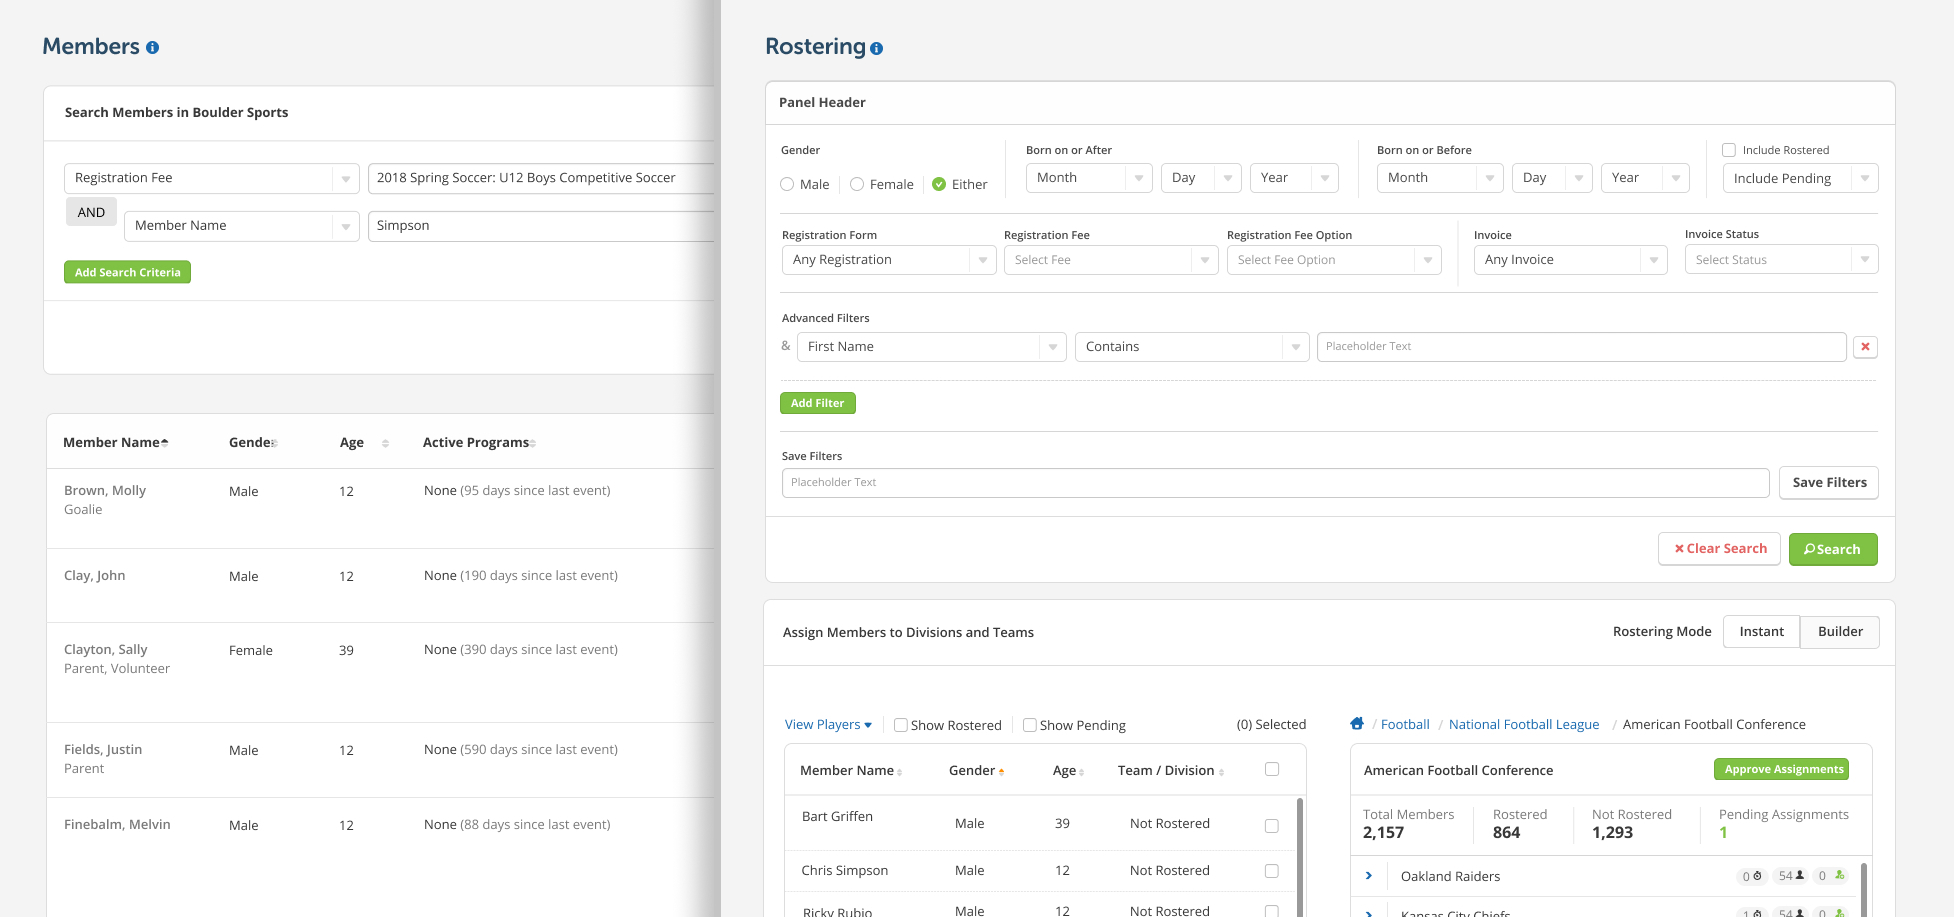
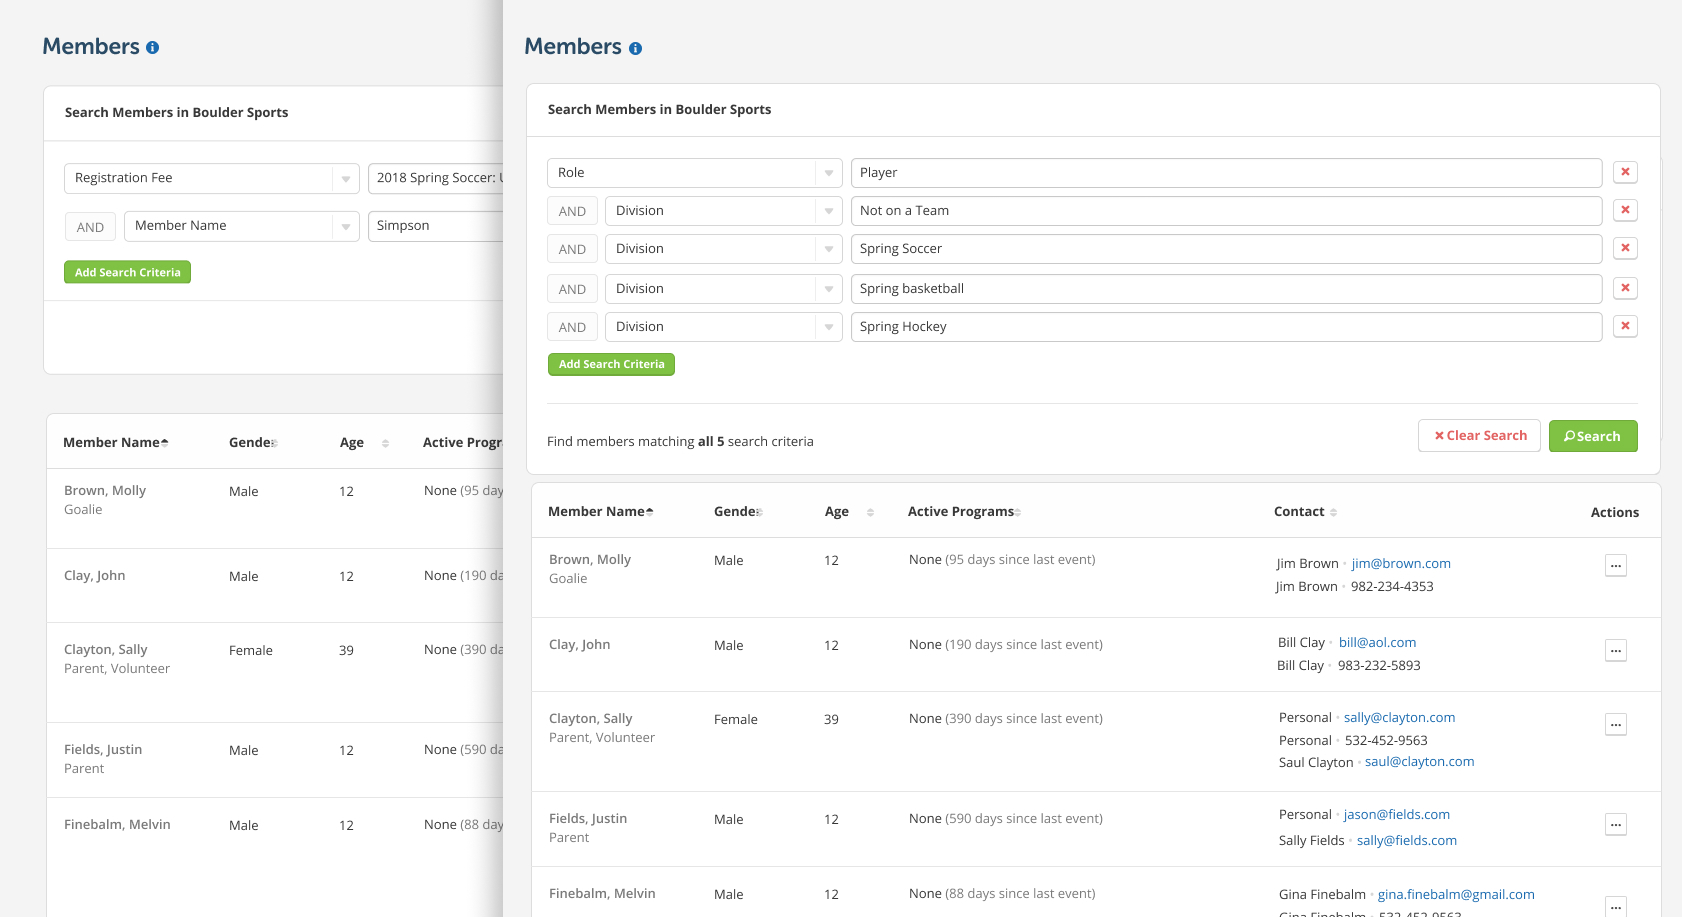
updates to the search article

diff --git a/src/scss/components/_article.scss b/src/scss/components/_article.scss
@@ -82,6 +82,13 @@ $spot-color: $cu-primary !default;
   margin: 0 auto;
 }
 
+.Article-feature {
+  background-color: $cu-middleground;
+  border: 1px solid $cu-divider--light;
+  padding: $su-medium;
+  margin-bottom: $su-xxlarge;
+}
+
 .figma_badge {
   text-align: center;
   display: block;

diff --git a/src/posts/teamsnap-search-patterns.md b/src/posts/teamsnap-search-patterns.md
@@ -22,7 +22,9 @@ TeamSnap’s Sports Org product is a an all in one platform for sports businesse
 
 Now, the current product only handles one season at a time but our upcoming plans include features like cross season member management which would bring the potential number of users on the system from 10k to 20k, 30k,  <b>40k members spread across hundreds of teams in past and present seasons</b>.
 
-Our general product strategy moving forward is geared around bringing reporting in app too. A lot of our competitors also relied on data exports as the way to satisfy reporting needs and as a whole their products were very disjointed. We viewed easy access to data that helps them run their business as a big differentiator.
+Our general product strategy moving forward is geared around bringing reporting in app too. A lot of our competitors also relied on data exports as the way to satisfy reporting needs and as a whole their products were very disjointed. 
+
+> We viewed easy access to data that helps them run their business as a big differentiator. Search is a backbone for surfacing that data.
 
 </header>
 
@@ -45,7 +47,9 @@ Our general product strategy moving forward is geared around bringing reporting 
 </div>
 </div>
 
-<blockquote class="Blockquote">The key thing to know about Anthony is he’s a volunteer, sports management is not his day job and he’s really only in it for his kids. <b>He doesn't have time for complexity</b>.</blockquote>
+#### The key things to know about Anthony are: 
+* He’s a volunteer, sports management is not his day job and he’s really only in it for his kids. He doesn't have time for complexity.
+* Being a father to a kid in a travel organization he’s familiar with a lot of travel accommodation sites like Expedia, AirBnB, South West Airlines.
 
 Typically he’s trying to accomplish a few tasks here and there after work or on the weekends. So when he starts hitting snags because somethings hard to use, slow, cumbersome or just plain confusing, the drop off rates for that session skyrocket and his satisfaction with the product plummets.
 
@@ -53,9 +57,7 @@ Typically he’s trying to accomplish a few tasks here and there after work or o
 
 ### The Problem
 
-<figure class="Article-image">
-  <img  class="u-border" src="/../../img/search-patterns/Old_UI_article.jpg" />
-</figure>
+Our search experiences weren't great to say the least and we were getting a lot of negative feedback from our customers. We had other searches in places like invoicing, messaging and reporting, some better than others, but all them inconsitent and hard to use. With Rostering, we made some search updates in the past but never really set a great foundation and over time, search inputs piled up as new requirements came in and different teams added on.
 
 <blockquote class="Blockquote Blockquote--largeText">
 
@@ -67,7 +69,15 @@ Typically he’s trying to accomplish a few tasks here and there after work or o
 
 </blockquote>
 
-Our search experiences weren't great to say the least and we’re getting a lot of vague feedback from our customers. We had made some search updates in the past but never really set a great foundation and over time they would get piled on as new requirements popped up and different teams added on.
+<figure class="Article-image">
+  <figcaption class="u-padBottomMd">Member Tab Search</figcaption>
+  <img  class="u-border" src="/../../img/search-patterns/Old_UI_article.jpg" />
+</figure>
+
+<figure class="Article-image">
+  <figcaption class="u-padBottomMd">Rostering Tab Search</figcaption>
+  <img  class="u-border" src="/../../img/search-patterns/Old_UI_two_article.jpg" />
+</figure>
 
 </section>
 
@@ -86,28 +96,14 @@ Our search experiences weren't great to say the least and we’re getting a lot 
 </figure>
 
 <blockquote class="Blockquote Blockquote--centered Blockquote--largeText">
-We were updating the members and rostering tabs searches, but given our past struggles, the amount of searching we had across the app and the data heavy roadmap, I wanted to provide a strategy for search moving forward.
+Two different teams I was on were updating the members and rostering tabs searches respectively, but given our past struggles, the amount of searching we had across the app and the data heavy roadmap, I wanted to provide a strategy for search moving forward.
 </blockquote>
-
-### Goals
-
-<figure class="Article-image">
-  <img src="/../../img/search-patterns/goals_metrics_funnels.jpg" />
-</figure>
-
-* <span class="u-block u-textLarge">Decrease Time to search</span> Gives us an measure of to how simple the search is to use.
-* <span class="u-block u-textLarge">Decrease Time to action</span> Serves as an indication of how connected the search is to the actual data.
-* <span class="u-block u-textLarge">Increase Valid searches</span> Provides insight as to how confusing the search is.
-
-<b>Hypothesis:</b> by targeting these user metrics we can decrease session dropoff and increase adoption; more so on rostering. The more we can improve key areas of member management the more we can increase our retention rate, increase booking numbers and overall profit.
 
 ### Quantitative Findings
 
 Like any worthwhile design, it starts with research. In this case we pulled the numbers of how people were using the the two searches. The goal was to see if we could determine any intent. Based on some conversations with customers, our assumption was that members would be more specific, focused on finding individuals vs rostering which is more about building segments of users. That assumption proved out to be true, but we also got some really good info for setting scope and selecting what criteria was needed on which feature. 
 
-<blockquote>
-The current searches had much more than what was needed, making the experiences cumbersome and intimidating.
-</blockquote>
+> The current members search had much more than what was needed, adding the the user experiences being cumbersome and intimidating.
 
 <figure class="Article-image">
   <img src="/../../img/search-patterns/Quanitative_members-tab.jpg" />
@@ -240,21 +236,64 @@ Some guidance as to how this notion of categorizing search inputs builds up to s
 
 Then condensing complex inputs into simplified singular ones. For example the combing the first, last and an operator into a single text input that combines the three. Stepped inputs like registration form, fee and option could also benefit from this approach; especially with a typeahead component.
 
-### Distilling Principles
+### Search UI Kit
 
-All this research is difficult to bring up in the the moment during a conversation so took a moment to distill it all down to some basic principles that tie back to the research and could easily be used as talking points. Standard UX laws are great to mention too, but these are geared towards our specific situation and draw from the context given on our research and from past experiences.
+To round out the visual design of the search components I put together a quick UI kit focusing on the visual design of the new patterns and how those components could fit into our app in different ways.
 
 <figure class="Article-image">
-  <img src="/../../img/search-patterns/ux-principles.jpg" />
+  <img src="/../../img/search-patterns/uI-kit.jpg" />
 </figure>
 
-1. <span class="u-block u-textLarge">Applied search criteria must have an indicator</span> otherwise users are starting with a false data set
-2. <span class="u-block u-textLarge">Make applied search criteria human readable</span> text strings over conditional logic and menu options
-3. <span class="u-block u-textLarge">User intent should drive the design</span> search should be unique to the goal of the feature
-4. <span class="u-block u-textLarge">Guide users to successful searches</span> help them to enter combinations of criteria that get result 
-5. <span class="u-block u-textLarge">Reduce complexity</span> don’t if they don’t need a specific option
-6. <span class="u-block u-textLarge">The best search is one not needed</span> if we can just show the results they need, do it
+<figure class="Article-image">
+  <figcaption class="u-padBottomMd">Simple Search</figcaption>
+  <img src="/../../img/search-patterns/future_usage_simple.jpg" />
+</figure>
 
+<figure class="Article-image">
+  <figcaption class="u-padBottomMd">Simple Search & Filter</figcaption>
+  <img src="/../../img/search-patterns/future_usage_simple_plus.jpg" />
+</figure>
+
+<figure class="Article-image">
+  <figcaption class="u-padBottomMd">Page Level Filter</figcaption>
+  <img src="/../../img/search-patterns/future_usage_page-filter.jpg" />
+</figure>
+
+<figure class="Article-image">
+  <figcaption class="u-padBottomMd">Compound Searching</figcaption>
+  <img src="/../../img/search-patterns/future_usage_compound.jpg" />
+</figure>
+
+### Distilling Principles
+
+All this research is difficult to bring up in the flow of a conversation so took a moment to distill it all down to some basic principles that tie back to the research and could easily be used as talking points.
+
+<div class="Article-feature">
+
+<figure class="Article-image u-padBottomNone">
+  <img src="/../../img/search-patterns/ux-principles.png" />
+</figure>
+
+1. <span class="u-block u-textLarge">Applied search criteria must have an indicator</span> otherwise users are starting with a false data set and we’re breaking their mental modal of the data from the start.
+2. <span class="u-block u-textLarge">Make applied search criteria human readable</span> So favor text strings over conditional logic and large groups of menu options so it takes less work to understand what criteria is applied.
+3. <span class="u-block u-textLarge">User intent should drive the design</span> Really consider the primary goal of the feature and how search facilitates that, then make it unique to that goal.
+4. <span class="u-block u-textLarge">Guide users to successful searches</span> By organizing inputs into categories we can help users enter better combinations of criteria and give them clearer paths in compound searches.
+5. <span class="u-block u-textLarge">Reduce complexity</span> By removing options they don’t need and condensing complex options we can limit the clicks needed as well as remove extraneous inputs that lead to invalid searches.
+6. <span class="u-block u-textLarge">The best search is one not needed</span> If we can just show the results they need, do it. Consider the overall flow the user is taking to get to specific information and look for patterns in common searches to define defaults and the overall experience around the search.
+
+</div>
+
+### Measuring Success
+
+<figure class="Article-image">
+  <img src="/../../img/search-patterns/goals_metrics_funnels.jpg" />
+</figure>
+
+* <span class="u-block u-textLarge">Decrease Time to search</span> Gives us an measure of to how simple the search is to use.
+* <span class="u-block u-textLarge">Decrease Time to action</span> Serves as an indication of how connected the search is to the actual data.
+* <span class="u-block u-textLarge">Increase Valid searches</span> Provides insight as to how confusing the search is.
+
+<b>Hypothesis:</b> by targeting these user metrics we can decrease session dropoff and increase adoption; more so on rostering. The more we can improve key areas of member management the more we can increase our retention rate, increase booking numbers and overall profit.
 
 </section>
 
@@ -272,9 +311,9 @@ All this research is difficult to bring up in the the moment during a conversati
   <img src="/../../img/search-patterns/Members_final.jpg" />
 </figure>
 
-We decided the scope of the typeahed component was just too much and ultimately went with the simple input. We felt like that was still a big improvement and really wanted to learn how that smaller iteration improves user experience and if we even need the type ahead.
+The scope of the typeahed component was just too much and ultimately we went with a simple full name input, condensing the first name, last name and operator inputs from before. 
 
-> Typeahead did a great job closing that gap, but w wanted to start with the smaller iteration and learn how our changes effected the time to search and action metrics as well as drop off between search and action to see if type typeahead was needed.
+> We felt like the quicker iteration was still a big improvement and really wanted to learn how it effected the time to search and action metrics as well as drop off between search and action, to see if type typeahead was needed.
 
 ### Rostering Tab
 
@@ -282,35 +321,9 @@ We decided the scope of the typeahed component was just too much and ultimately 
   <img src="/../../img/search-patterns/Rostering_final.jpg" />
 </figure>
 
-With the rostering team they initially wanted to go with the old version of member tab style search since their was already a pattern in place previously. 
+With the rostering team they initially wanted to go with the old version of member tab style search, the query builder pattern, since their was already a code in place previously.
 
-> After walking through and breaking down the interactions of the new design with the team, comparing them to our goals, we decided to move forward with the new grouped pattern.
-
-</section>
-
-<section class="Article-section">
-
-<header>
-
-<h2 class="Section-title">Rounding out the patterns</h2>
-
-</header>
-
-### Search UI Kit
-
-Even though we decided on the simplified version I still wanted to move forward with polishing the patterns, so we had some of that design and research ready to go moving forward.
-
-<figure class="Article-image">
-  <img src="/../../img/search-patterns/uI-kit.jpg" />
-</figure>
-
-### Future Usage
-
-The UI kit dives more into the visual design of the components while below gets more into how those components can fit into our app in various ways.
-
-<figure class="Article-image">
-  <img src="/../../img/search-patterns/future_usage.jpg" />
-</figure>
+> After walking through and breaking down the interactions of the new design with the team, comparing them to our goals, we decided to invest in the new categorized search pattern.
 
 </section>
 
@@ -318,24 +331,35 @@ The UI kit dives more into the visual design of the components while below gets 
 
 ### My Role
 
-* Led Research for the qualitative, quantitative and competitor analysis to define requirements
-* Led design of both implementations as well as the patterns
-* Led team discussions around choosing an option and worked with team on defining scope
+* Led design of both implementations as well as the patterns.
+* Led Research for the qualitative, quantitative and competitor analysis to define requirements.
+* Led team discussions around choosing an option and worked with team on defining scope.
+* Paired with PMs on measures of success and some of the qualitative analysis
+* Collaborated with back end developers on search capabilities given the limitations of our data structure.
+* Provided CSS guidence to front end developers on how to build the UI for the new searches patterns.
 
-### Lessons Learned
+### Learnings
 
-We didn’t have a lot of resources dedicated to setting up analytics so getting some of these numbers were difficult to do at scale, but measuring a small sample size through FullStory the number of bad searches had dropped to nearly nothing since we weren’t allowing it in the UI, which in term speed up time to results and ultimately time to action significantly. 
+We didn’t have a lot of resources dedicated to setting up analytics so getting some of these numbers were difficult to do at scale, but measuring a small sample size through FullStory the number of bad searches had dropped to nearly nothing since we weren’t allowing it in the UI, which in term speed up time to results and ultimately time to action significantly.
 
-<blockquote>
+<blockquote class="u-spaceBottomLg u-spaceTopLg Blockquote--largeText Blockquote--centered">
 Providing patterns, principles, tasks and user metrics to tie our efforts back to worked well in leading discussions. It provided a focused and objective platform to speak on.
 </blockquote>
 
 ### Next Steps
 
+#### Refine our Metrics Funnel
 Continue to work on a metrics funnel so as we make updates to both the search and results, we get a clear picture of the changes effect without manual monitoring. Then directly correlating them back to larger product and business goals to try and put a dollar amount on our efforts as a team. The goal is to get it down to a formula of as x decreases, y increases by z.
 
 <figure class="Article-image u-padTopMd">
   <img src="/../../img/search-patterns/next_steps.jpg" />
+</figure>
+
+#### Follow up on Principle Six
+With this project being specifically focused on the manual search experience, didn’t really get a chance to map out user flows and come up with ideas of how to automatically surface the info they need. I’d like to expand on that notion, especially with all the reporting work coming up.
+
+<figure class="Article-image u-padTopMd">
+  <img src="/../../img/search-patterns/next-steps-flow.jpg" />
 </figure>
 
 </section>
